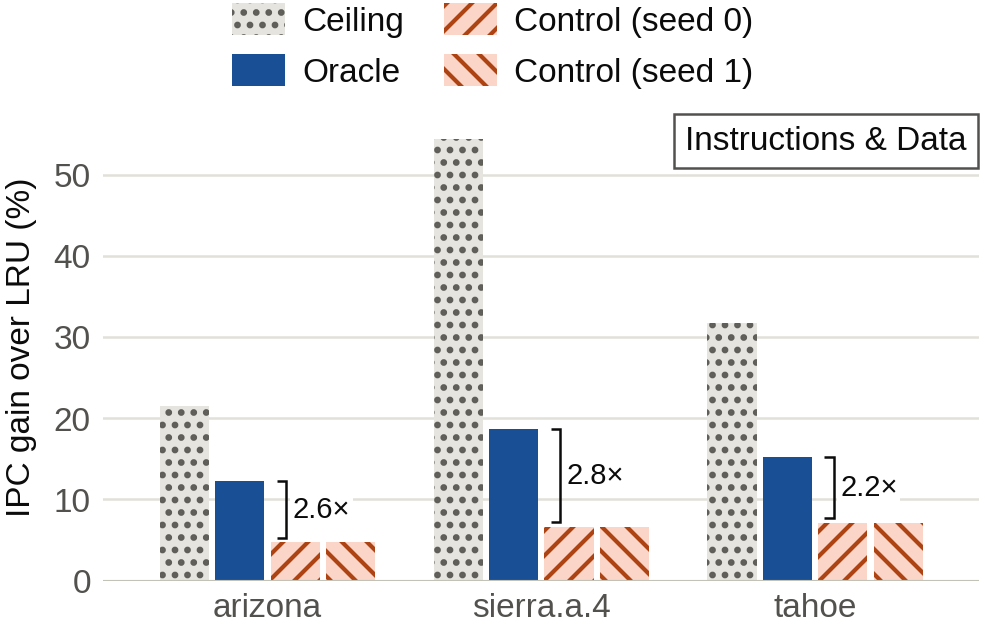
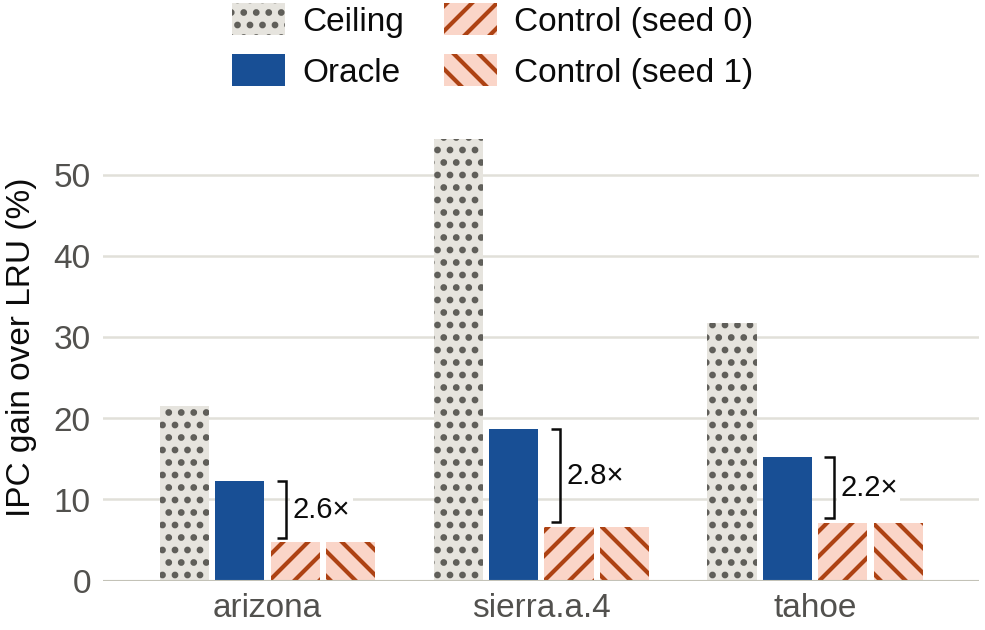
oracle_report: the no-geomean Google figures without the side label box
Same figures (--geomean off --bracket vertical) as the paper uses them.

Changed region(s): [[0.6701, 0.181, 1.0, 0.2714]]

diff --git a/tools/mlp_oracle/README.md b/tools/mlp_oracle/README.md
@@ -309,7 +309,7 @@ horizontal bracket. `--bracket none` leaves it out. `plot_markings.py` takes the
 `--side-label` names each graph's side in an outlined box in the plot's top right corner
 ("Instructions", "Data" or "Instructions & Data"), raising the y axis until no bar or bracket reaches
 under the box. `oracle_report/plots/oracle_vertical_nogeo_google_defmark_{i,d,b}.png` are the Google
-figures with `--geomean off --bracket vertical --side-label`.
+figures with `--geomean off --bracket vertical`.
 A geomean group comes last: by default the suite's, over all the study's workloads (`--geomean suite`);
 `--geomean plotted` takes it over the plotted workloads only (with the extra seeds' controls when every
 plotted workload has them), and `--geomean off` leaves it out. stderr always gives the suite geomean.
